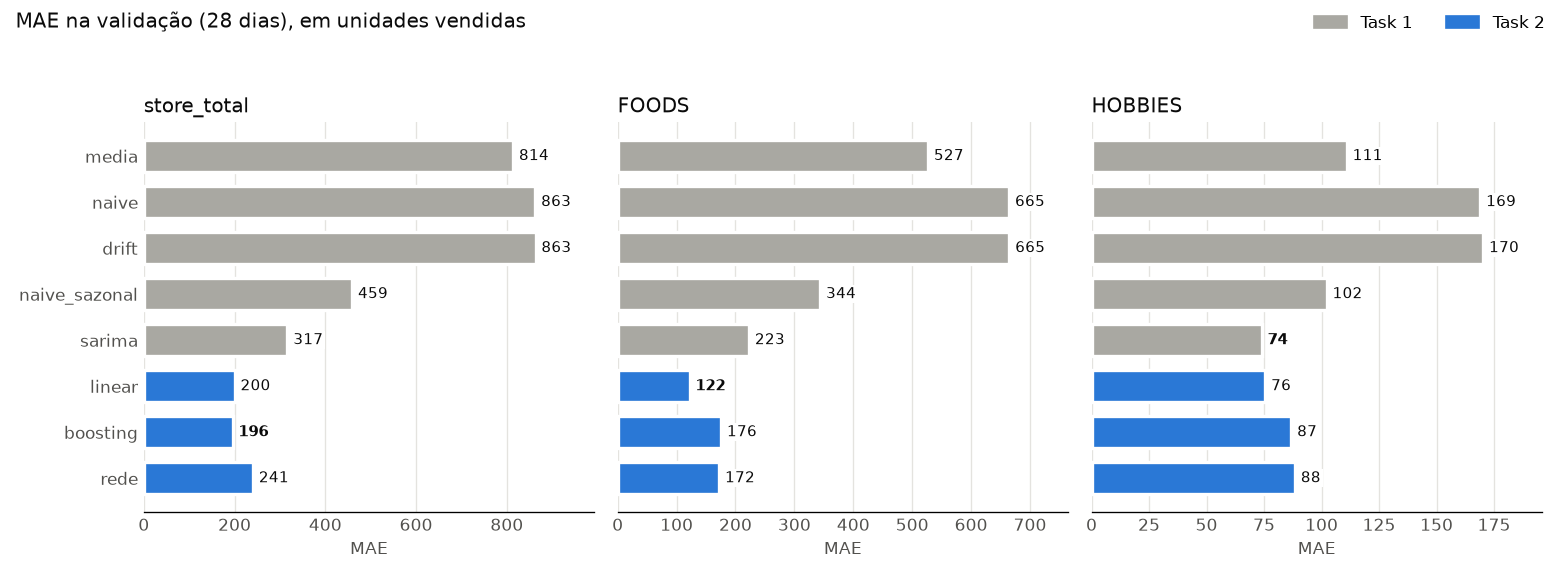
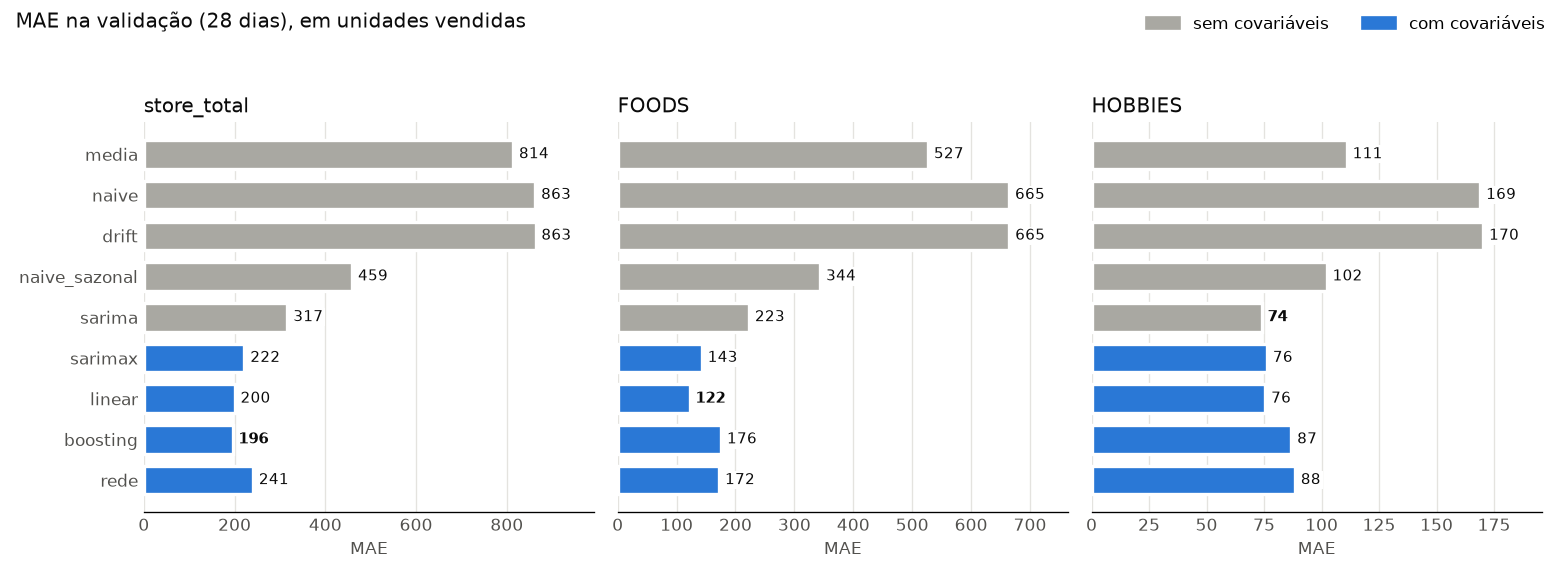
adiciona o sarimax (mesmas covariaveis dos outros modelos)

diff --git a/task2/sarimax.py b/task2/sarimax.py
@@ -1,0 +1,47 @@
+import matplotlib.pyplot as plt
+import pandas as pd
+from statsmodels.tsa.statespace.sarimax import SARIMAX
+
+from carregar import limpar_natal
+from config import H, M, SERIES, TRAIN_END, pasta_figuras
+from features import calendario
+from residuos import diagnosticar_residuos
+from sarima import ORDENS
+
+COVARIAVEIS = ["snap", "evento_Cultural", "evento_National", "evento_Religious", "evento_Sporting", "thanksgiving"]
+
+
+def plotar_previsao(y: pd.Series, y_val: pd.Series, prev, s: str, titulo: str) -> None:
+    ic = prev.conf_int(alpha=0.05)
+    fig, ax = plt.subplots(figsize=(12, 4))
+    ax.plot(y.index[-8 * M:], y.values[-8 * M:], lw=1, color="C0", label="treino (últimas 8 semanas)")
+    ax.plot(y_val.index, y_val.values, lw=1, color="black", label="validação")
+    ax.plot(prev.predicted_mean.index, prev.predicted_mean.values, lw=1.5, color="C1", label="SARIMAX")
+    ax.fill_between(ic.index, ic.iloc[:, 0], ic.iloc[:, 1], color="C1", alpha=0.2, label="IC 95%")
+    ax.axvline(TRAIN_END, color="gray", ls="--", lw=0.8)
+    ax.set_title(f"{s} — {titulo}")
+    ax.legend(loc="upper left")
+    fig.tight_layout()
+    fig.savefig(pasta_figuras("sarimax") / f"sarimax_previsao_{s}.png", dpi=120)
+    plt.close(fig)
+
+
+def sarimax(treino: pd.DataFrame, val: pd.DataFrame, cov: pd.DataFrame) -> pd.DataFrame:
+    datas_val = pd.date_range(TRAIN_END + pd.Timedelta(days=1), periods=H, freq="D")
+    previsoes = []
+    for s in SERIES:
+        ordem, sazonal = ORDENS[s]
+        titulo = f"SARIMAX{ordem}{sazonal}_{M} com SNAP e eventos"
+        X = calendario(treino.index.append(datas_val), cov, s, 0.0, 1.0)[COVARIAVEIS]
+        res = SARIMAX(limpar_natal(treino[s]), exog=X.loc[treino.index], order=ordem,
+                      seasonal_order=sazonal + (M,)).fit(disp=False, maxiter=200)
+        prev = res.get_forecast(H, exog=X.loc[datas_val])
+        yhat = prev.predicted_mean
+        assert yhat.index.min() > TRAIN_END and len(yhat) == H
+
+        coefs = "  ".join(f"{c}={res.params[c]:.1f}" for c in COVARIAVEIS)
+        print(f"[sarimax] {s:12s} AIC={res.aic:.1f}  {coefs}")
+        diagnosticar_residuos(res.resid.iloc[M + 1:], s, "sarimax")
+        plotar_previsao(treino[s], val[s], prev, s, titulo)
+        previsoes.append(pd.DataFrame({"date": yhat.index, "series": s, "modelo": "sarimax", "yhat": yhat.values}))
+    return pd.concat(previsoes, ignore_index=True)

diff --git a/task2/grafico_metricas.py b/task2/grafico_metricas.py
@@ -4,9 +4,9 @@ from matplotlib.patches import Patch
 
 from config import pasta_figuras, SERIES
 
-MODELOS = ["media", "naive", "drift", "naive_sazonal", "sarima", "linear", "boosting", "rede"]
-MODELOS_TASK2 = {"linear", "boosting", "rede"}
-COR_TASK1, COR_TASK2 = "#a9a8a2", "#2a78d6"
+MODELOS = ["media", "naive", "drift", "naive_sazonal", "sarima", "sarimax", "linear", "boosting", "rede"]
+MODELOS_COM_COVARIAVEIS = {"sarimax", "linear", "boosting", "rede"}
+COR_SEM, COR_COM = "#a9a8a2", "#2a78d6"
 TEXTO, TEXTO_2, GRADE = "#0b0b0b", "#52514e", "#e4e3df"
 TITULOS = {
     "mae": "MAE na validação (28 dias), em unidades vendidas",
@@ -21,7 +21,7 @@ def plotar_metrica(metricas: pd.DataFrame, coluna: str) -> None:
     for ax, s in zip(eixos, SERIES):
         sub = metricas[metricas["series"] == s].set_index("modelo").reindex(MODELOS)
         valores = sub[coluna]
-        cores = [COR_TASK2 if m in MODELOS_TASK2 else COR_TASK1 for m in sub.index]
+        cores = [COR_COM if m in MODELOS_COM_COVARIAVEIS else COR_SEM for m in sub.index]
         ax.barh(range(len(sub)), valores, color=cores, height=0.7, edgecolor="white", linewidth=2)
         maximo = metricas[coluna].max() if mesma_escala else valores.max()
         formato = "{:.2f}" if mesma_escala else "{:.0f}"
@@ -43,7 +43,7 @@ def plotar_metrica(metricas: pd.DataFrame, coluna: str) -> None:
 
     eixos[0].set_yticks(range(len(MODELOS)), MODELOS)
     eixos[0].invert_yaxis()
-    fig.legend(handles=[Patch(color=COR_TASK1, label="Task 1"), Patch(color=COR_TASK2, label="Task 2")],
+    fig.legend(handles=[Patch(color=COR_SEM, label="sem covariáveis"), Patch(color=COR_COM, label="com covariáveis")],
                loc="upper right", frameon=False, ncol=2)
     fig.suptitle(TITULOS[coluna], x=0.01, ha="left", color=TEXTO, fontsize=12)
     fig.tight_layout(rect=(0, 0, 1, 0.93))

diff --git a/task2/main.py b/task2/main.py
@@ -17,6 +17,7 @@ from metricas import salvar_metricas
 from sarima import comparar_ordens, sarima
 from rede import rede
 from grafico_metricas import plotar_metricas
+from sarimax import sarimax
 
 
 
@@ -42,7 +43,8 @@ def main() -> None:
     else:
         task1 = carregar_task1()
 
-    previsoes = pd.concat([task1, linear(treino, val, cov), boosting(treino, val, cov), rede(treino, val, cov)], ignore_index=True)
+    previsoes = pd.concat([task1, linear(treino, val, cov), boosting(treino, val, cov), rede(treino, val, cov),
+                           sarimax(treino, val, cov)], ignore_index=True)
 
     previsoes.to_csv(PREVISOES, index=False)
     metricas = salvar_metricas(treino, val, previsoes)
